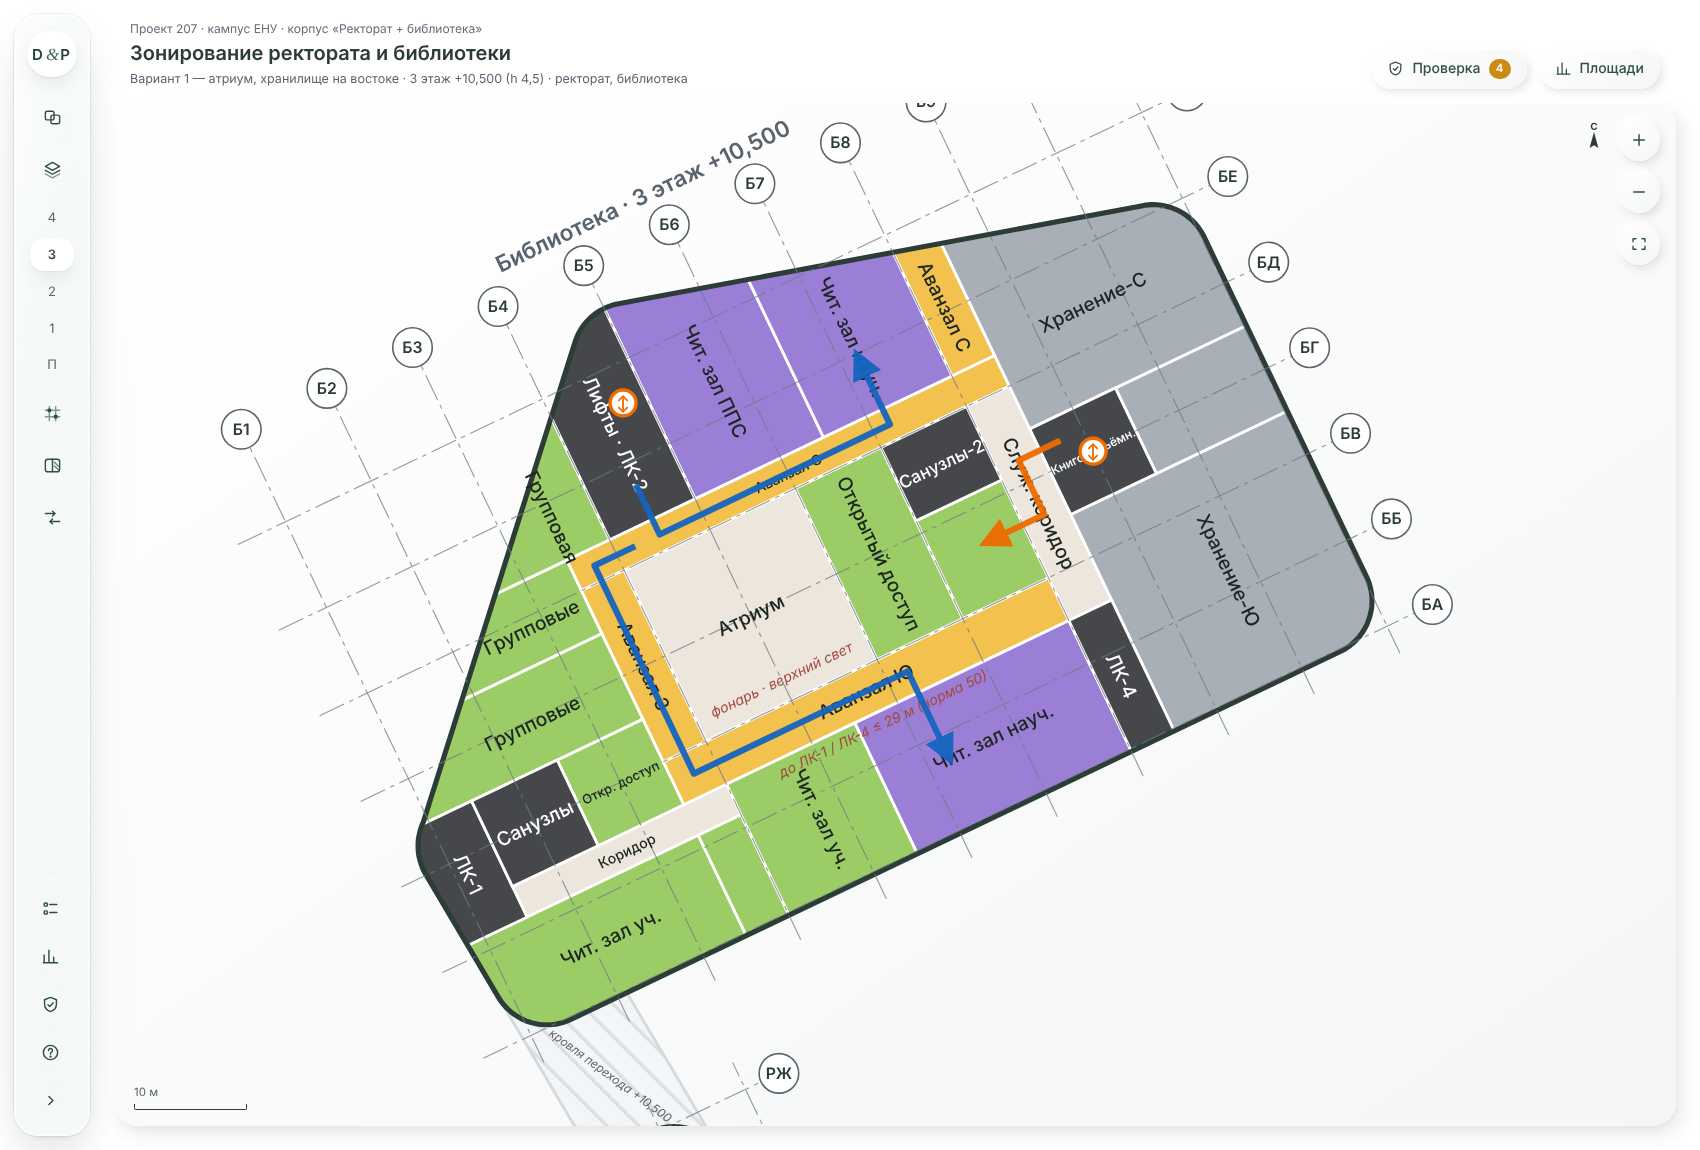
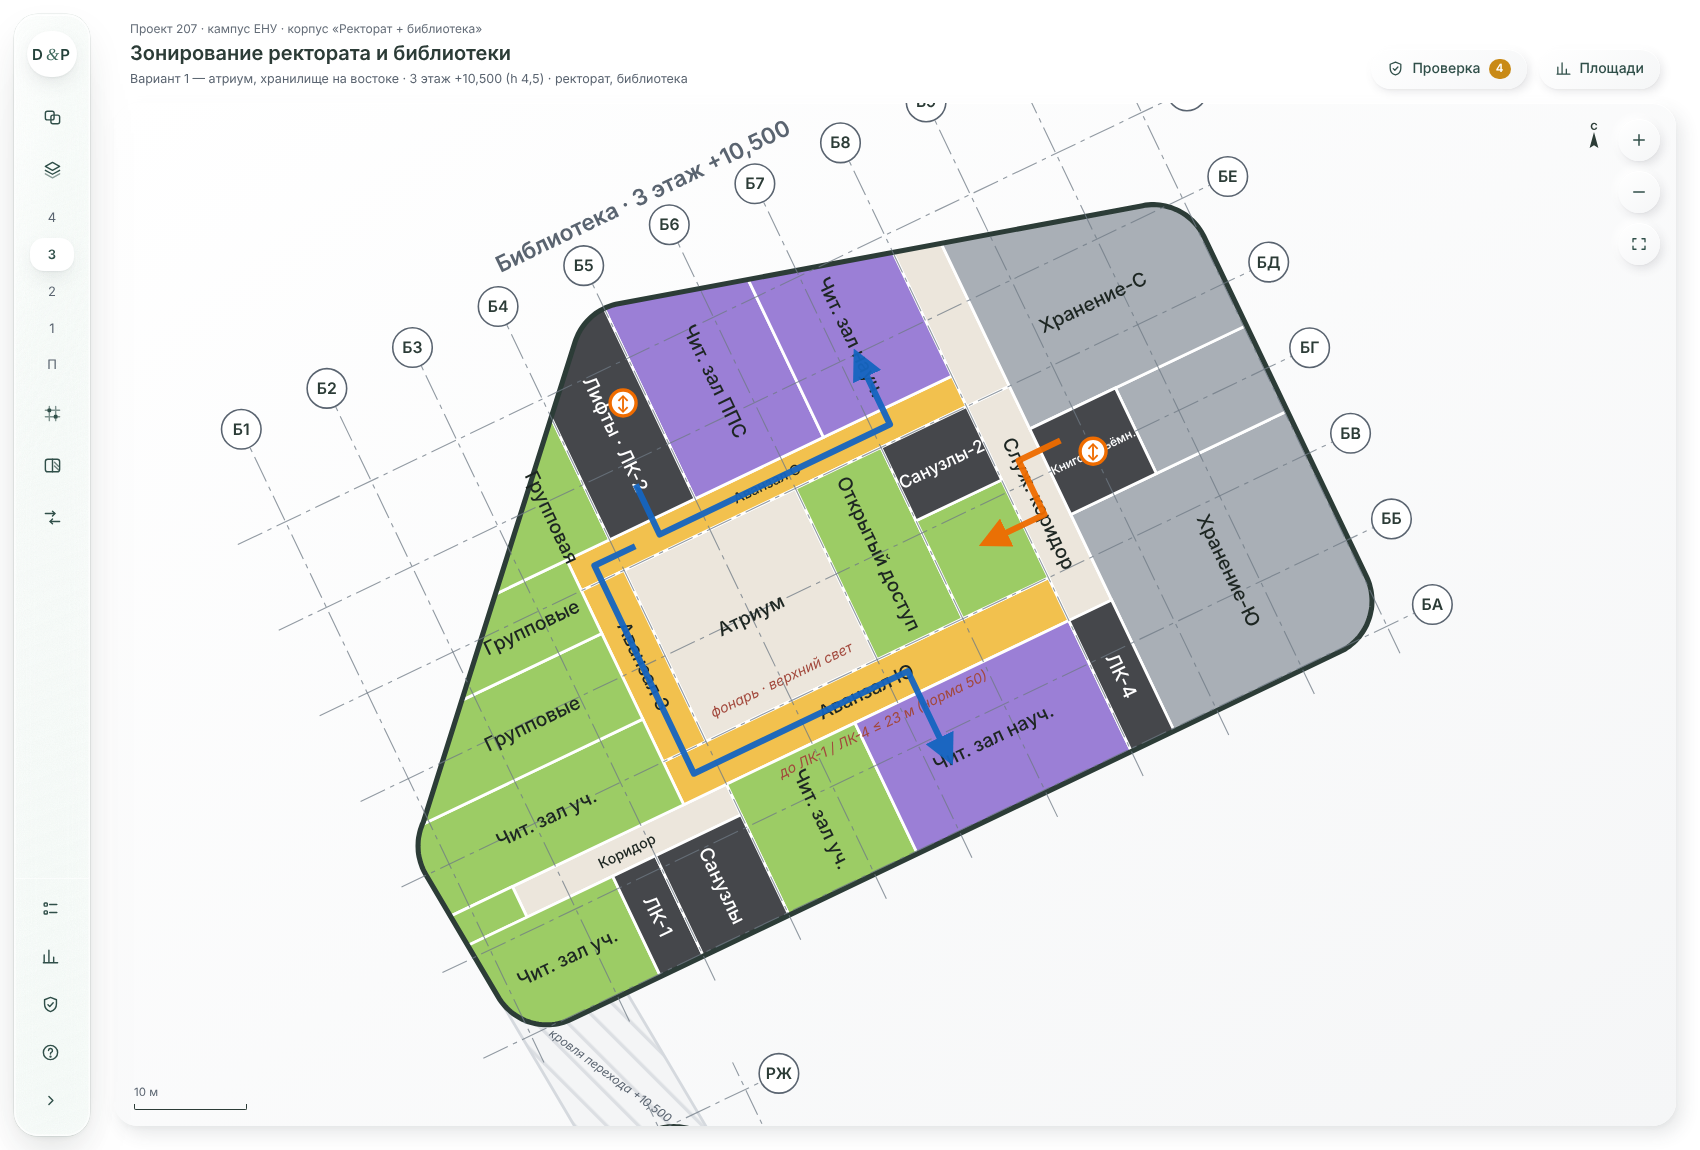
Библиотека: ЛК-1 и санузлы к ЮЮВ-фасаду, лекционный зал в ЮЗ углу, читальный зал на месте ЛК-1, открытый доступ у ЛК-4 (2 эт.), служебный коридор до северного фасада (2–3 эт.), гардероб и портфели поменяны
Claude-Session: https://claude.ai/code/session_01PBUMDRyqQNphWJTD6zJTqL

Changed region(s): [[0.2494, 0.6696, 0.4676, 0.8522], [0.53, 0.213, 0.5924, 0.3652], [0.3118, 0.8217, 0.3429, 0.8522]]

diff --git a/LIB_Zoning_REPORT.md b/LIB_Zoning_REPORT.md
@@ -22,7 +22,13 @@
 - **Служебный вход → проход → служебный коридор** на 1 этаже: персонал попадает в служебную зону, не проходя через читательскую.
 - **Служебный каталог 112 м², обработка 78 м²** — по табл. 26.
 - **Реставрация** — на 1 этаже у северного фасада, рядом с копированием (их разделяет световой карман), около 190 м².
-- **Световой карман северного аванзала.** Аванзал выведен к окну в северном фасаде полосой по оси Б8, поэтому освещён с обоих концов: атриумом и окном (п. 4.3.3.1). Северный аванзал сужен до 3 м, потому что аванзалы больше нормы.
+- **Световой карман северного аванзала.**
+  - На 4 этаже аванзал выведен к окну в северном фасаде по оси Б8 и освещён с обоих концов: атриумом и окном (п. 4.3.3.1).
+  - На 2–3 этажах эта полоса снова служебный коридор до северного окна, по эскизу. Северный аванзал там заканчивается у служебного коридора, в 17 м от атриума — это в пределах 24 м по п. 4.3.3.1.
+  - Северный аванзал сужен до 3 м, потому что аванзалы больше нормы.
+- **ЛК-1 и санузлы перенесены к ЮЮВ-фасаду** по эскизам архитектора: ЛК-1 — u 12,6–16,8, санузлы — u 16,8–25,2, южная полоса v −1…9,6, на всех этажах и в подвале. ЛК-1 шириной 4,2 м вмещает два марша по 1,6 м; окна и выход наружу — на ЮЮВ-фасаде.
+- **1 этаж.** Лекционный зал занял ЮЗ угол на месте прежних ЛК-1 и санузлов: ≈ 297 м², ≈ 200 мест, выходы в фойе и наружу через ЗЮЗ и ЮЮВ фасады. Гардероб и портфели поменяны местами.
+- **2–4 этажи.** На месте прежних ЛК-1, санузлов и открытого доступа учебной литературы — западный читальный зал (ЗЮЗ и ЗСЗ фасады). На 2 этаже у ЛК-4 — открытый доступ учебного отделения.
 
 ## 2. По этажам
 
@@ -43,7 +49,7 @@
 | Этаж | Людей | Кто |
 |---|---:|---|
 | Подвал | ≈ 16 | персонал хранения и технических служб; по табл. 26 — 1 сотрудник на 140 тыс. ед. |
-| 1 | ≈ 675 | лекционный зал 180, абонементы 265, каталоги и СБО 100, персонал ≈ 130 |
+| 1 | ≈ 695 | лекционный зал 200, абонементы 265, каталоги и СБО 100, персонал ≈ 130 |
 | 2 | ≈ 500 | учебные залы 347, групповые 116, открытый доступ 26, персонал |
 | 3 | ≈ 500 | учебные залы 153, научные 194, групповые 116, открытый доступ 26, персонал |
 | 4 | ≈ 636 | научные залы 523, аудиовизуальные и редкие 82, открытый доступ 26, персонал |
@@ -56,26 +62,26 @@
 
 Беру 165 человек на 1 м ширины марша для I–II степени (СНиП 2.08.02-89* п. 1.105). **Допущение — проверить по действующим нормам РК.**
 
-| Этаж | ЛК-1 (марш 1,6 м, 264 чел.) | ЛК-2 (марш 1,8 м, 297 чел.) | ЛК-4 (марш 1,6 м, 264 чел.) | Всего | Нужная ширина / есть |
+| Этаж | Людей | ЛК-1 (марш 1,6 м, 264 чел.) | ЛК-2 (марш 1,8 м, 297 чел.) | ЛК-4 (марш 1,6 м, 264 чел.) | Нужная ширина / есть |
 |---|---:|---:|---:|---:|---|
-| 2 | 111 | 273 | 117 | 501 | 3,04 / 5,0 м |
-| 3 | 159 | 244 | 97 | 501 | 3,04 / 5,0 м |
-| 4 | 129 | ≈ 289 ¹ | ≈ 218 | 636 | 3,85 / 5,0 м |
+| 2 | 496 | 198 | 212 | 87 | 3,0 / 5,0 м |
+| 3 | 526 | 246 | 183 | 97 | 3,2 / 5,0 м |
+| 4 | 659 | 176 | 257 | 226 | 4,0 / 5,0 м |
 
-¹ Северо-восточный зал 4 этажа эвакуируется через световой карман к ЛК-2 (≈ 37 м ≤ 50), чтобы не перегружать ЛК-4.
+Северо-восточный зал 4 этажа эвакуируется через световой карман к ЛК-2 (≈ 37 м ≤ 50).
 
 **Итог:** каждая ЛК справляется со своими людьми, общая ширина с запасом.
 
-**Если одна ЛК заблокирована** (моё строгое прочтение п. 5.3.2.1; в нормах это прямо не требуется):
-- 2 и 3 этажи проходят: две ЛК пропускают 528–561 человека при 501.
-- 4 этаж без ЛК-2 — 528 при 636, **не проходит**. ЛК-4 шириной 4,2 м не вмещает марш шире 1,6 м.
-- Если эту проверку требуется выполнить: вернуть ЛК-4 к 8,4 м или уменьшить людей на 4 этаже — например, отдать часть восточных залов под индивидуальные кабины. **Решает архитектор или пожарный эксперт.**
+**Если одна ЛК заблокирована** (строгое прочтение п. 5.3.2.1; в нормах это прямо не требуется):
+- 2 и 3 этажи проходят: две ЛК пропускают 528–561 человека.
+- 4 этаж — 528–561 человек при 659, **не проходит**.
+- Если эту проверку требуется выполнить: уменьшить людей на 4 этаже, например кабинами вместо части залов, или расширить ЛК до 8,4 м. **Решает пожарный эксперт.**
 
 ### 3.3. Расстояния (табл. 9, графа 3 для вузов; табл. 8)
 
 | Участок | Предел, м | Фактически, м |
 |---|---:|---:|
-| Южный аванзал и коридор: ЛК-1 — ЛК-4 | 50 | ≤ 29 |
+| Южный аванзал и коридор: ЛК-1 — ЛК-4 | 50 | ≤ 23 |
 | Северный аванзал → ЛК-2 | 50 | ≤ 28 |
 | Северо-восточный зал 4 этажа → ЛК-2 через карман | 50 | ≈ 37 |
 | Восточные залы 4 этажа → ЛК-4 | 50 | ≤ 10 |
@@ -102,23 +108,23 @@
 | Помещение | П | 1 | 2 | 3 | 4 | Всего |
 |---|---:|---:|---:|---:|---:|---:|
 | Вестибюль, гардероб | — | 381 | — | — | — | 381 |
-| Лекционный зал (≈ 180 мест) | — | 256 | — | — | — | 256 |
+| Лекционный зал (≈ 200 мест) | — | 297 | — | — | — | 297 |
 | Абонементы | — | 613 | — | — | — | 613 |
 | Каталоги и СБО | — | 398 | — | — | — | 398 |
-| Аванзалы (вкл. световой карман; на 4 этаже — и восточный) | — | — | 431 | 431 | 507 | 1 369 |
-| Читальные залы учебного отделения | — | — | 946 | 417 | — | 1 364 |
+| Аванзалы | — | — | 343 | 343 | 492 | 1 178 |
+| Читальные залы учебного отделения | — | — | 925 | 504 | — | 1 429 |
 | Кабинеты групповых занятий | — | — | 290 | 290 | — | 581 |
-| Читальные залы научного отделения | — | — | — | 660 | 1 782 | 2 442 |
+| Читальные залы научного отделения | — | — | — | 660 | 1 868 | 2 528 |
 | Аудиовизуальные залы, зал редких книг | — | — | — | — | 464 | 464 |
-| Фонд открытого доступа | — | — | 292 | 292 | 292 | 877 |
+| Фонд открытого доступа | — | — | 330 | 222 | 222 | 773 |
 | Основное хранение (вкл. редкие издания) | 1 668 | — | 446 | 878 | — | 2 992 |
 | Компактное хранение | — | 153 | 432 | — | — | 585 |
 | Служебные и лаборатории (МБА, копирование, реставрация, служебный вход, обработка 78, служебный каталог 112, приёмка, кладовые, портфели) | — | 934 | — | — | — | 934 |
-| Техника | 1 460 | — | — | — | — | 1 460 |
+| Техника | 1 476 | — | — | — | — | 1 476 |
 | Атриум | — | 282 | 282 | 282 | 282 | 1 129 |
-| Коридоры, холлы, служебный коридор | 379 | 359 | 255 | 124 | 48 | 1 165 |
-| Лестничные клетки, лифты, книгоподъёмники | 329 | 329 | 329 | 329 | 329 | 1 647 |
-| Санузлы | — | 131 | 131 | 131 | 131 | 524 |
+| Коридоры, холлы, служебный коридор | 391 | 333 | 344 | 212 | 63 | 1 344 |
+| Лестничные клетки, лифты, книгоподъёмники | 301 | 301 | 301 | 301 | 301 | 1 506 |
+| Санузлы | — | 143 | 143 | 143 | 143 | 573 |
 | **Итого** | **3 836** | **3 836** | **3 836** | **3 836** | **3 836** | **19 180** |
 
 ### 4.2. Сверка с табл. 26 (М = 1 800)
@@ -126,22 +132,22 @@
 | Группа | Брутто | ≈ полезная ×0,88 | Норма | Разница |
 |---|---:|---:|---:|---:|
 | Абонемент | 613 | 540 | 678 | −138 |
-| Аванзал | 1 369 | 1 205 | 450 | +755 ¹ |
+| Аванзал | 1 178 | 1 036 | 450 | +586 ¹ |
 | Каталоги, СБО | 398 | 350 | 503 | −153 |
-| Читальные залы учебного отд. | 1 364 | 1 200 | 1 728 | −528 |
+| Читальные залы учебного отд. | 1 429 | 1 257 | 1 728 | −471 |
 | Групповые | 581 | 511 | 792 | −281 |
-| Читальные залы научного отд. | 2 442 | 2 149 | 2 700 | −551 |
+| Читальные залы научного отд. | 2 528 | 2 225 | 2 700 | −475 |
 | Аудиовизуальные, редкие книги | 464 | 409 | 900 | −491 |
 | **Основное хранение + сотрудники** | 2 992 | 2 633 | 2 752 | **−119** ² |
 | **Компактное хранение** | 585 | 515 | 450 | **+65** ² |
-| Открытый доступ | 877 | 772 | 1 800 | −1 028 |
+| Открытый доступ | 773 | 680 | 1 800 | −1 120 |
 | Обработка и служебные | 934 | 822 | 1 259 | −437 |
-| **Итого табл. 26** | **12 619** | **≈ 11 105** | **14 012** | **≈ −2 910** |
+| **Итого табл. 26** | **12 475** | **≈ 10 980** | **14 012** | **≈ −3 030** |
 
 ¹ Аванзалы — это ещё и галереи вокруг атриума и пути эвакуации.
 ² Закрытое хранение вместе: 3 148 м² полезной площади при норме 3 202 — совпадает с нормой с точностью ≈ 2 %.
 
-**Места в залах:** учебных ≈ 500, научных ≈ 715, групповых ≈ 230, аудиовизуальных и редких ≈ 80 — всего ≈ 1 530.
+**Места в залах:** учебных ≈ 525, научных ≈ 740, групповых ≈ 230, аудиовизуальных и редких ≈ 80 — всего ≈ 1 580.
 
 ## 5. Что ещё не помещается
 
